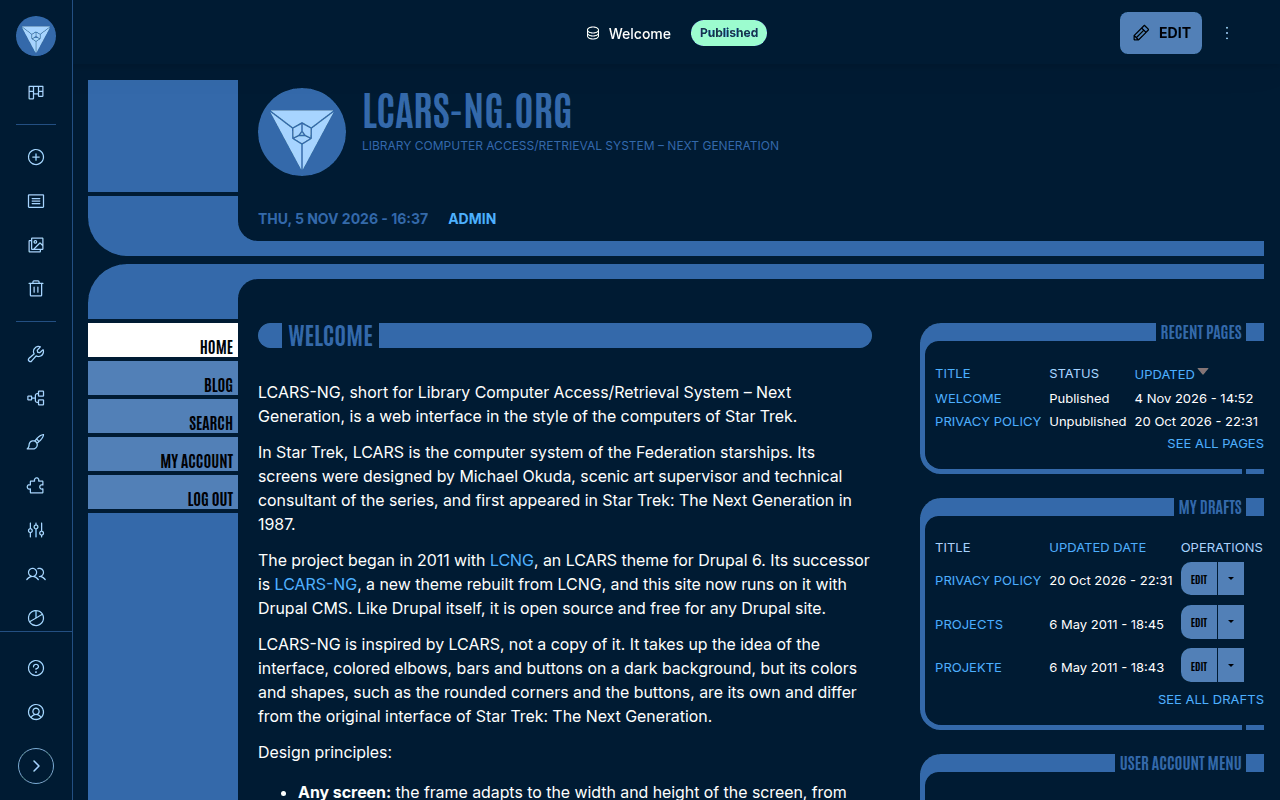
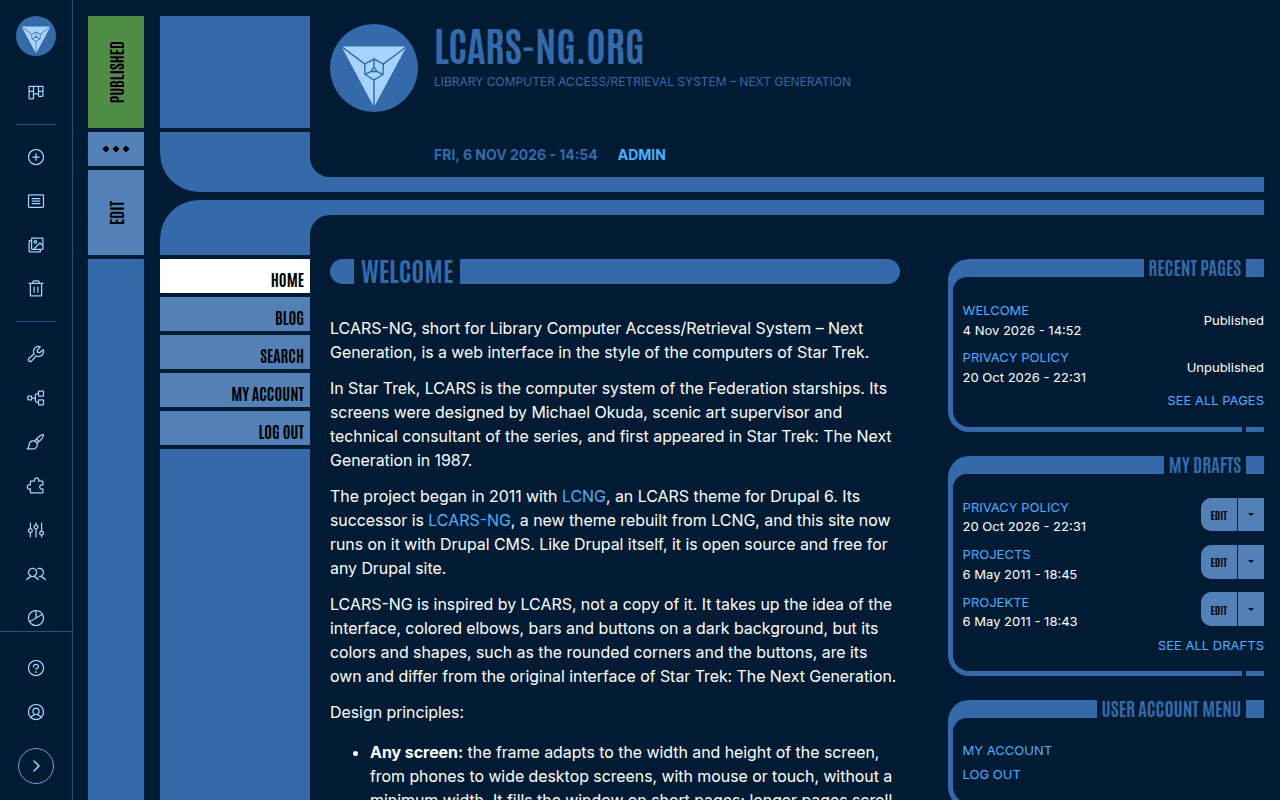
New screenshots: the column of the top bar, a login page and a phone
The front page, the dashboard and screenshot.png show the top bar as an
LCARS column and the elbows of 1.0.16. The README adds a second row side
by side: the login page (1280 x 800) and the front page on a phone for
signed-in users (375 x 812 at twice the density), both as high as each
other.

From lcars-ng.org f74600b.

diff --git a/README.md b/README.md
@@ -18,8 +18,13 @@ Antonio for bars, titles, buttons, menus and tabs and Inter for the running
 text, so it looks the same in every browser and on every system.
 
 <p>
-  <a href="images/screenshots/front-page.png"><img src="images/screenshots/front-page.png" width="49%" alt="LCARS-NG front page for signed-in users with the contrast setting Standard, with the collapsed Navigation of Drupal on the left and its top bar: upper panel with logo, site name and slogan, status line with date and user, menu buttons on the left, content and panels below"></a>
+  <a href="images/screenshots/front-page.png"><img src="images/screenshots/front-page.png" width="49%" alt="LCARS-NG front page for signed-in users with the contrast setting Standard, with the collapsed Navigation of Drupal on the left and its top bar as an LCARS column of segments (status, more actions, Edit): upper panel with logo, site name and slogan, status line with date and user, menu buttons on the left, content and panels below"></a>
   <a href="images/screenshots/dashboard.png"><img src="images/screenshots/dashboard.png" width="49%" alt="The dashboard in LCARS-NG with the contrast setting Standard: cards for recent content and top tasks, below them announcements and the Drupal events as an agenda"></a>
+</p>
+
+<p>
+  <a href="images/screenshots/login.png"><img src="images/screenshots/login.png" width="76%" alt="The login page of LCARS-NG: between a bar at the top and one at the bottom, a box with the logo on its disc, site name and slogan, below it a box with the tabs Log in and Reset your password and the login form"></a>
+  <a href="images/screenshots/mobile-front-page.png"><img src="images/screenshots/mobile-front-page.png" width="22%" alt="LCARS-NG front page on a phone for signed-in users: the top bar of Drupal closed by an elbow, below it the upper panel with logo, site name, slogan and status line between two elbows, the menu as a grid of buttons and the title bar of the page"></a>
 </p>
 
 - To see the theme on a live site, visit the
